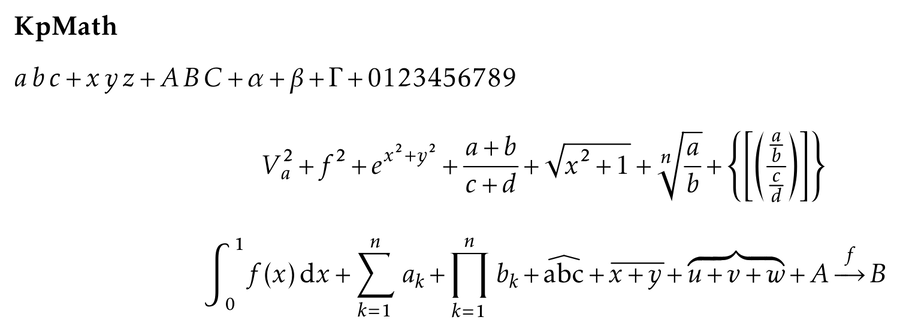
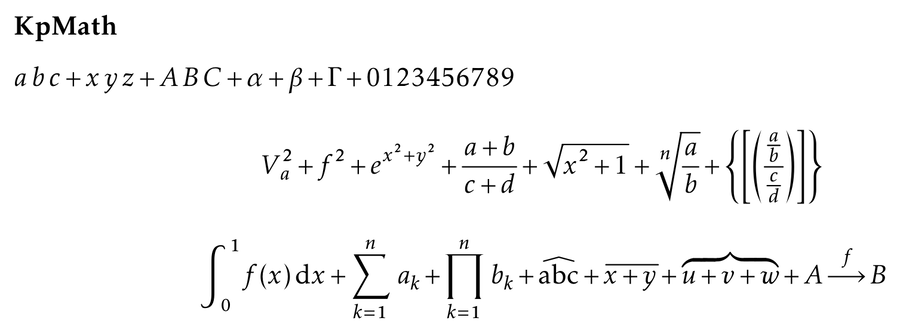
Docs: the fonts now shipped, the font menu, and what changed to fill it
The shipping section of the survey lists the new directories and says why
they were chosen, the design document describes the menu, the math= rule
and the text-file key, and records what moves in existing documents: the
sans serif and typewriter text of Latin Modern and TeX Gyre, and the Kp and
Fira fonts with their new versions. The gallery has new specimens for Fira
Math and KpMath and adds KpMath Sans and New Computer Modern Sans Math.

diff --git a/src/doc/opentype-math-design.md b/src/doc/opentype-math-design.md
@@ -357,9 +357,29 @@ its *master*, the way the `font` environment variable names a font.
 is replaced by its math companion when that font is installed, and the
 variant picks the companion: sans serif and typewriter mathematics come from
 the `sans` and `mono` masters, since a math font has no such face. In a text
-shape a math family is replaced by its text companion. Whatever it produces
-goes through `font_database_master`, so a profile that names a family instead
-of a master still resolves.
+shape a math family is replaced by its text companion, and sans serif and
+typewriter text come from the same companions, since a text master often has
+no such face either (Latin Modern Roman, TeX Gyre Pagella). Whatever it
+produces goes through `font_database_master`, so a profile that names a
+family instead of a master still resolves.
+
+In math mode the font is found from the *text* font (`font`), not from
+`math-font`, which only counts when the text font is `roman`: the math
+companion of the text font is taken. A math font which is not the companion
+of its text font, Euler Math and Asana Math with Pagella or KpMath Sans with
+Kepler, is therefore given by a rule, `math=Euler Math,TeX Gyre Pagella`,
+which `math_fix` turns into the main family in math shapes.
+
+The font menus are built from the profiles. The `group` key puts a font in
+the Serif or Sans serif section, or in a submenu of other fonts, and the
+`menu` key gives it the name LaTeX users know, Times for TeX Gyre Termes,
+Palatino for Pagella, Utopia for Erewhon. `init-opentype-font` writes the
+text font, the rule when one is needed, and the font family of the profile
+(`family ss` for Kp Sans, a sans serif design with a serif master). A
+profile may also name a file of its text companion (`text-file`); when the
+database does not know that companion, as it does not know New Computer
+Modern Sans from TeX Live, the directory of the file is added once, as the
+math font itself is.
 
 `REWRITE_MATH_ITALIC` in the same file takes the letters of a formula from
 the mathematical italic alphabet of the math font itself, rather than from
@@ -718,6 +738,39 @@ prints, the `get_unicode_range` experiment) were dropped.
   table of that face calls its family `XCharter-Math-Bold` rather than
   `XCharter Math` with subfamily `Bold`, which is why the database entry
   has that spelling: it is what a user's own scan produces.
+
+- **Font menus like the LaTeX world, and the fonts to fill them (27
+  September 2026).** TeXmacs now ships Libertinus (Math, Serif, Sans, Mono),
+  Euler Math, Concrete Math with the Concrete faces of CM Unicode, Erewhon
+  and XCharter with their math fonts, and completes the shipped families:
+  LM Sans and Mono, KpSans, KpMono and KpMath-Sans (the Kp fonts move to
+  0.66 as a whole), Fira Math 0.3.4. The font menu offers the fourteen
+  serif and four sans serif pairings of section 3.7. What had to change for
+  them to come out whole:
+
+  the Euler and Asana entries were set in Pagella Math, because the
+  formulas follow the companion of the text font; they now use a `math=`
+  rule. The TeX Gyre shortcut of `init-font` ignored the math font it was
+  given and applied the package of Pagella, which forces its own
+  mathematics; it now applies only when no other math font is asked for.
+  The Fira entry loaded `fira-font`, which takes the large operators from
+  Pagella; a font package is now skipped when the math font is a profiled
+  OpenType one. KpMath-Sans calls its family KpMath, and KpMathSans in the
+  shipped database belonged to the master Kepler Math, which answered with
+  the serif KpMath; it is a master of its own now, as Fira Math and Lete
+  Sans Math are, and so is New Computer Modern Sans Math. KpMono is tagged
+  sans serif, which the feature distance penalizes more than leaving the
+  master, so Kepler typewriter came out in Libertinus Mono; KpMono has the
+  master Kepler Mono now, which the Kp profiles name as their `mono`, and
+  keeps its tag, so it does not become the typewriter every other family
+  falls back on. Upstream Erewhon-Math-Bold calls its family Erewhon, like
+  the text face, so bold Erewhon mathematics is still emulated.
+
+  Visible in existing documents: the sans serif and typewriter text of
+  Latin Modern and of the four TeX Gyre fonts now come from their
+  companions (LM Sans and Mono, TeX Gyre Heros or Adventor and Cursor)
+  rather than from European Computer Modern, and Kp and Fira documents move
+  with the new versions of those fonts.
 
 - **The extra symbols are in service (22 September 2026).**
   `tmuniversaltounicode-extra.scm` is loaded beside `tmuniversaltounicode`

diff --git a/src/doc/opentype-math-fonts-survey.md b/src/doc/opentype-math-fonts-survey.md
@@ -371,38 +371,48 @@ detected from the cmap, no cap.
 
 ## 6. Shipping
 
-TeXmacs now ships these math families, besides the TeX Gyre text and math
+TeXmacs ships these math families, besides the TeX Gyre text and math
 fonts and STIX v1 which were already there (the branch also adds an
-unrelated text family, OpenDyslexic):
+unrelated text family, OpenDyslexic). The choice follows the fonts LaTeX
+users know: one entry of the font menu for each of the usual pdfLaTeX
+pairings (`lmodern`, `newtx`, `newpx`, `libertine`, `kpfonts`,
+`erewhon`, `XCharter`, `eulervm`, `concmath`, `stix2`) and Fira, Kp Sans
+and Computer Modern Sans for slides.
 
 | Directory | Fonts | Size | License |
 |---|---|---|---|
-| `TeXmacs/fonts/truetype/lm` | Latin Modern Math and the four 10 pt Latin Modern Roman text faces | 1.2 MB | GUST Font License |
+| `TeXmacs/fonts/truetype/lm` | Latin Modern Math, and the 10 pt Latin Modern Roman (four faces), Sans (four) and Mono (regular, italic) | 1.7 MB | GUST Font License |
 | `TeXmacs/fonts/truetype/newcm` | New Computer Modern Math regular and bold, and four NewCM10 text faces | 4.2 MB | GUST Font License |
 | `TeXmacs/fonts/truetype/stix2` | STIX Two Math and four STIX Two Text faces | 2.0 MB | SIL OFL 1.1 |
-| `TeXmacs/fonts/truetype/kp` | KpMath regular and bold, and four KpRoman text faces | 1.1 MB | SIL OFL 1.1 |
-| `TeXmacs/fonts/truetype/fira` | Fira Math, next to the Fira Sans and Fira Mono faces already shipped | 0.2 MB | SIL OFL 1.1 |
+| `TeXmacs/fonts/truetype/kp` | KpMath regular and bold, KpMath-Sans and SansBold, and four faces each of KpRoman, KpSans and KpMono, all version 0.66 | 2.1 MB | SIL OFL 1.1 |
+| `TeXmacs/fonts/truetype/fira` | Fira Math 0.3.4, next to the Fira Sans and Fira Mono faces already shipped | 0.2 MB | SIL OFL 1.1 |
+| `TeXmacs/fonts/truetype/libertinus` | Libertinus Math, Serif (four faces), Sans (three: there is no bold italic) and Mono | 2.6 MB | SIL OFL 1.1 |
+| `TeXmacs/fonts/truetype/erewhon` | Erewhon Math regular and bold, and four Erewhon faces | 1.5 MB | SIL OFL 1.1 |
+| `TeXmacs/fonts/truetype/xcharter` | XCharter Math regular and bold, and four XCharter faces | 1.0 MB | SIL OFL 1.1 (math), Bitstream Charter license (text) |
+| `TeXmacs/fonts/truetype/concrete` | Concrete Math regular and bold, and the four Concrete faces of CM Unicode | 1.5 MB | SIL OFL 1.1 |
+| `TeXmacs/fonts/truetype/euler` | Euler Math, set with TeX Gyre Pagella text | 0.4 MB | SIL OFL 1.1 |
 
 Each directory carries the license text and a `README.md` with the upstream
-address, the version and the copyright of every file. Together
-this is about 8.6 MB, which adds about two thirds to the TrueType font
-directory and a third to the whole font tree.
-
-The five families are registered in the shipped global font database
+address, the version and the copyright of every file. The families are
+registered in the shipped global font database
 (`TeXmacs/fonts/font-database.scm`, `font-features.scm`,
 `font-characteristics.scm`), so a new installation finds them with no disk
-scan: rendering the samples with an empty home directory and no
-`TEXMACS_FONT_PATH` gives the same result as with the fonts installed
-system-wide. Users with an existing local database get them when TeXmacs
-loads the global tables for a missing family, or after a rescan.
+scan. Users with an existing local database get them when TeXmacs loads the
+global tables for a missing family, or after a rescan.
 
 Only one weight and one optical size of each text family is shipped. A
 document typeset with the whole upstream family available can therefore
 differ slightly, as the extra optical sizes of Latin Modern and the Medium
-and SemiBold weights of STIX Two Text are then used instead.
+and SemiBold weights of STIX Two Text are then used instead. Upstream has
+released only the regular weight of Fira Math, so bold Fira mathematics is
+emulated, and Erewhon-Math-Bold names its family like the Erewhon text
+face, so bold Erewhon mathematics is emulated too.
 
 Everything else in the survey is picked up from the system or from TeX
 Live through `TEXMACS_FONT_PATH` and the font database; the profiles in
 `TeXmacs/progs/fonts/fonts-opentype.scm` activate when the files are
 found, and the font menus list exactly the profiled fonts that are
-installed.
+installed. New Computer Modern Sans Math is profiled for that reason and
+not shipped (2.6 MB with its text faces); XITS, Asana, IBM Plex, Garamond,
+Old Standard, GFS Neohellenic and Lete Sans are profiled and offered in a
+submenu when installed.

diff --git a/src/src/OPENTYPEMATH.md b/src/src/OPENTYPEMATH.md
@@ -72,16 +72,21 @@ of them was set with no kerning at all.
 `TeXmacs/progs/fonts/fonts-opentype.scm`). What the MATH table cannot say:
 the text, sans serif and typewriter companions of a math font, whether math
 letters come from the math font or from the text italic, the menu label.
-Twenty fonts are profiled, each declared with `define-math-font-profile`,
+Twenty-four fonts are profiled, each declared with `define-math-font-profile`,
 and a companion is named by its master, the way
 the `font` environment variable names a font, not by its family. A text family typesets its formulas in its math
 companion and the other way round, math sans serif and math typewriter use
-the declared companions, and the "Mathematical font" menu lists the profiled
-fonts that are installed.
+the declared companions, in text as in formulas. The font menu offers the
+installed ones under the names LaTeX users know, in a Serif and a Sans serif
+section (Times, Palatino, Utopia, Charter, Euler, Concrete, Fira, Kp Sans,
+Computer Modern Sans...), and the "Mathematical font" menu lists them all.
 
 **Shipped fonts.** Latin Modern Math, New Computer Modern Math, STIX Two
-Math, KpMath and Fira Math are shipped with text companions and registered in
-the global database, so they work in a fresh installation without a scan.
+Math, KpMath and KpMath Sans, Fira Math, Libertinus Math, Erewhon Math,
+XCharter Math, Concrete Math and Euler Math are shipped with their text
+companions (sans serif and typewriter too where the family has them) and
+registered in the global database, so they work in a fresh installation
+without a scan.
 Rescanning a complete database went from minutes to about two seconds by
 skipping files already recorded.
 
@@ -180,9 +185,10 @@ hand-tuned tables. Both are here to compare against.
 
 ### Shipped with TeXmacs
 
-These five are in `TeXmacs/fonts/truetype` and need no font scan. They take
+These are in `TeXmacs/fonts/truetype` and need no font scan. They take
 the MATH path with no hand tuning, so they exercise everything described
-above.
+above. Libertinus, Erewhon, XCharter, Concrete and Euler, shipped as well,
+are shown below among the other profiled fonts.
 
 ![Latin Modern Math](opentype-math/latin-modern-math.png)
 
@@ -191,6 +197,8 @@ above.
 ![STIX Two Math](opentype-math/stix-two-math.png)
 
 ![KpMath](opentype-math/kpmath.png)
+
+![KpMath Sans](opentype-math/kpmathsans.png)
 
 ![Fira Math](opentype-math/fira-math.png)
 
@@ -236,6 +244,8 @@ two-em cap.
 ![Euler Math](opentype-math/euler-math.png)
 
 ![IBM Plex Math](opentype-math/ibm-plex-math.png)
+
+![New Computer Modern Sans Math](opentype-math/newcomputermodernsansmath.png)
 
 ![Lete Sans Math](opentype-math/lete-sans-math.png)
 
